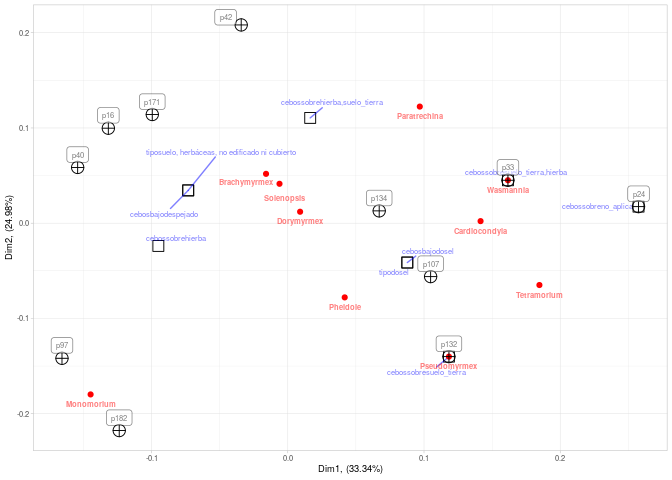
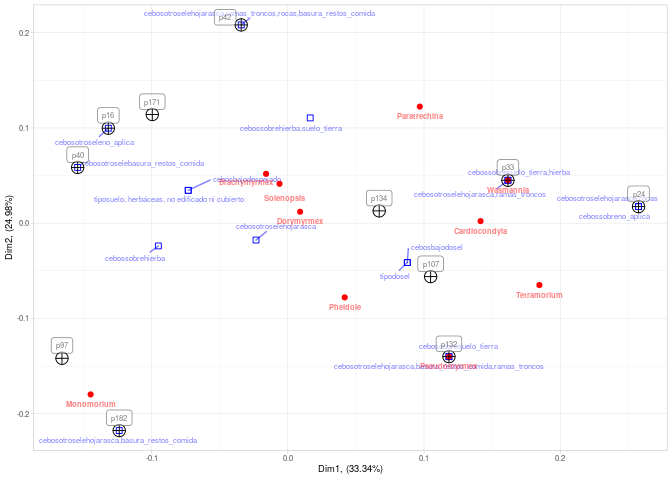
bidelkis added

diff --git a/analisis-exploratorio-ecologico.md b/analisis-exploratorio-ecologico.md
@@ -563,7 +563,7 @@ grep(
 
 ### Hábitat
 
-#### `mangoland`
+#### Miguel, usuario `mangoland`
 
 Si tus datos son de hábitat (para nidos, lee más abajo), utiliza la
 función `matriz_comunidad_hab` para generar una matriz de comunidad, y
@@ -721,30 +721,22 @@ dendro(mc = mcmg_ord, k = 4)
 
 ![](analisis-exploratorio-ecologico_files/figure-gfm/dendro_mg-1.png)<!-- -->
 
-PCoA. Leer la [leyenda de símbolos](#leyendasimbolos) a continuación del
-gráfico, también denominado “*biplot*”:
+PCoA.
 
 ``` r
 pcoa_mg <- pcoagg(mc = mcmg_ord, ma = mamg_ord, textoetiq = 2)
-pcoa_mg$grafico
+pcoa_mg['grafico']
+## $grafico
 ```
 
 <img src="analisis-exploratorio-ecologico_files/figure-gfm/pcoa_mg-1.png" width="1500" />
 
-<a name="leyendasimbolos"></a>Leyenda de símbolos:
+<a name="leyenda"></a>**Leyenda y significado del *biplot***:
 
 Los tres símbolos empleados reflejan las posiciones de tres tipos de
 objetos: géneros, sitios y variables, utilizando las puntuaciones
-(*scores*) de cada uno en el espacio bidimensional. En este escalado, la
-distancia entre cada objeto es inversamente proporcional a su relación.
-Por lo tanto, objetos próximos reflejan algún grado de relación entre sí
-dentro de la muestra. En el caso que nos ocupa, dado que se trata de
-pocas muestras, y por el hecho de que las variables son mayoritariamente
-cuantitativas, sobre un mismo punto es posible que solapen distintos
-símbolos; reconoce cuando aparezcan de forma combinada.
-
-Leyenda de
-objetos:
+(*scores*) de cada uno en el espacio bidimensional o
+*biplot*.
 
 |                            |                                           |
 | :------------------------: | :---------------------------------------: |
@@ -752,7 +744,15 @@ objetos:
 |  ![](simbolo-sitios.png)   |                  sitios                   |
 | ![](simbolo-variables.png) | <span style="color:blue">variables</span> |
 
-#### `emdilone`
+En este escalado, la distancia entre cada objeto es inversamente
+proporcional a su relación. Por lo tanto, objetos próximos reflejan
+algún grado de relación entre sí dentro de la muestra. En el caso que
+nos ocupa, dado que se trata de pocas muestras, y por el hecho de que
+las variables son mayoritariamente cuantitativas, sobre un mismo punto
+es posible que solapen distintos símbolos; reconoce cuando aparezcan de
+forma combinada.
+
+#### Emma, usuaria `emdilone`
 
 ``` r
 mcemdilone <- matriz_comunidad_hab('emdilone')
@@ -883,7 +883,146 @@ PCoA:
 
 ``` r
 pcoa_em <- pcoagg(mc = mcem_ord, ma = maem_ord, distmethod = 'gower', textoetiq = 2, p_max = 0.2)
-pcoa_em$grafico
+pcoa_em['grafico']
+## $grafico
 ```
 
 <img src="analisis-exploratorio-ecologico_files/figure-gfm/pcoa_emdilone-1.png" width="1500" />
+
+Ir a [leyenda y significado del *biplot*](#leyenda).
+
+#### Emma, usuaria `emdilone`
+
+``` r
+mcbidelkiscastillo <- matriz_comunidad_hab('bidelkiscastillo')
+mabidelkiscastillo <- matriz_ambiental_hab('bidelkiscastillo')
+mabidelkiscastillo <- mabidelkiscastillo[match(rownames(mcbidelkiscastillo), rownames(mabidelkiscastillo)),]
+```
+
+``` r
+mcbidelkiscastillo %>% kable
+```
+
+|      | Dorymyrmex | Paratrechina | Pheidole | Pseudomyrmex | Solenopsis |
+| ---- | ---------: | -----------: | -------: | -----------: | ---------: |
+| p105 |          0 |            1 |        0 |            0 |          0 |
+| p122 |          1 |            0 |        0 |            0 |          0 |
+| p126 |          0 |            0 |        0 |            0 |          0 |
+| p160 |          1 |            0 |        0 |            0 |          0 |
+| p169 |          1 |            0 |        0 |            0 |          0 |
+| p17  |          0 |            0 |        0 |            0 |          1 |
+| p182 |          1 |            0 |        1 |            0 |          0 |
+| p187 |          1 |            1 |        0 |            0 |          0 |
+| p39  |          1 |            0 |        0 |            0 |          0 |
+| p53  |          0 |            0 |        0 |            1 |          1 |
+| p78  |          1 |            0 |        0 |            0 |          0 |
+
+``` r
+mabidelkiscastillo %>% kable
+```
+
+|      | horainicio | horafinal | distanciaabasura  | distanciaagua     | distanciavias | actividadpersonas | actividadcebo1 | actividadcebo2 | actividadcebo3 | actividadcebo4 | fechacolecta         | plantas                  | cebosbajo | cebossobre           | cebosotrosele                    | tipo                                                    | riqueza |
+| ---- | :--------- | :-------- | :---------------- | :---------------- | :------------ | :---------------- | :------------- | :------------- | :------------- | :------------- | :------------------- | :----------------------- | :-------- | :------------------- | :------------------------------- | :------------------------------------------------------ | ------: |
+| p105 | 10.30 am   | 11.20 am  | no hay a la vista | no hay a la vista | 1a5           | 0                 | 0              | 0              | 0              | 10omas         | 2019-09-28T00:00:00Z | Palma                    | despejado | cemento\_pavimento   | no\_aplica                       | pavimentado, acerado (bordes edificios, bancos, postes) |       1 |
+| p122 | 2.30 pm    | 3.40 pm   | 10omas            | no hay a la vista | 1a5           | 0                 | 6a9            | 10omas         | 10omas         | 10omas         | 2019-09-28T00:00:00Z | Frambollan               | despejado | hierba               | hojarasca,rocas,ramas\_troncos   | suelo, herbáceas, no edificado ni cubierto              |       1 |
+| p126 | 11.00 am   | 11.41 am  | no hay a la vista | no hay a la vista | 1a5           | 6a9               | 0              | 0              | 0              | 0              | 2019-10-22T00:00:00Z | Framboyan, palma, flores | despejado | cemento\_pavimento   | no\_aplica                       | pavimentado, acerado (bordes edificios, bancos, postes) |      NA |
+| p160 | 1.55 pm    | 2.57 pm   | 1a5               | 1a5               | 1a5           | 1a5               | 1a5            | 6a9            | 1a5            | 10omas         | 2019-10-14T00:00:00Z | Palma, framboyan         | despejado | hierba               | basura\_restos\_comida,hojarasca | suelo, herbáceas, no edificado ni cubierto              |       1 |
+| p169 | 12.15 pm   | 1.00 pm   | 6a9               | no hay a la vista | 1a5           | 0                 | 0              | 1a5            | 1a5            | 0              | 2019-09-28T00:00:00Z | Palma                    | despejado | cemento\_pavimento   | basura\_restos\_comida           | pavimentado, acerado (bordes edificios, bancos, postes) |       1 |
+| p17  | 10.35 am   | 11.17 am  | 1a5               | no hay a la vista | 6a9           | 1a5               | 0              | 0              | 0              | 10omas         | 2019-10-12T00:00:00Z | Mango                    | despejado | suelo\_tierra,hierba | basura\_restos\_comida           | suelo, herbáceas, no edificado ni cubierto              |       1 |
+| p182 | 3.00 pm    | 4.15 pm   | 1a5               | no hay a la vista | 1a5           | 0                 | 1a5            | 6a9            | 6a9            | 10omas         | 2019-09-27T00:00:00Z | NULL                     | despejado | hierba               | basura\_restos\_comida,hojarasca | suelo, herbáceas, no edificado ni cubierto              |       2 |
+| p187 | 4.45 pm    | 5.35 pm   | 1a5               | 1a5               | 1a5           | 0                 | 0              | 0              | 0              | 1a5            | 2019-10-14T00:00:00Z | NULL                     | despejado | cemento\_pavimento   | basura\_restos\_comida,hojarasca | pavimentado, acerado (bordes edificios, bancos, postes) |       2 |
+| p39  | 1.30 pm    | 2.15 pm   | 1a5               | no hay a la vista | 10omas        | 0                 | 1a5            | 0              | 1a5            | 0              | 2019-10-12T00:00:00Z | NULL                     | despejado | suelo\_tierra,hierba | basura\_restos\_comida           | suelo, herbáceas, no edificado ni cubierto              |       1 |
+| p53  | 12.10 pm   | 1.05 pm   | 1a5               | no hay a la vista | 1a5           | 1a5               | 0              | 1a5            | 0              | 1a5            | 2019-10-12T00:00:00Z | Ni idea                  | despejado | cemento\_pavimento   | basura\_restos\_comida,hojarasca | pavimentado, acerado (bordes edificios, bancos, postes) |       2 |
+| p78  | 3.17 pm    | 4.10 pm   | 1a5               | no hay a la vista | 1a5           | 6a9               | 0              | 1a5            | 0              | 1a5            | 2019-10-14T00:00:00Z | Framboyan, caoba         | despejado | cemento\_pavimento   | basura\_restos\_comida           | pavimentado, acerado (bordes edificios, bancos, postes) |       1 |
+
+Análisis exploratorios
+básicos:
+
+``` r
+mcbidelkiscastillo %>% rowSums %>% length #Número de individuos por parcela
+## [1] 11
+mcbidelkiscastillo %>% specnumber #Número de géneros por parcela
+## p105 p122 p126 p160 p169  p17 p182 p187  p39  p53  p78 
+##    1    1    0    1    1    1    2    2    1    2    1
+mcbidelkiscastillo %>% specnumber %>% sort #Número de géneros por parcela ordenados ascendentemente
+## p126 p105 p122 p160 p169  p17  p39  p78 p182 p187  p53 
+##    0    1    1    1    1    1    1    1    2    2    2
+mcbidelkiscastillo %>% colSums %>% specnumber #Número de géneros total (pooled)
+## [1] 5
+mcbidelkiscastillo %>% rowSums %>% table #Número de parcelas según conteo de géneros
+## .
+## 0 1 2 
+## 1 7 3
+mcbidelkiscastillo %>% colSums %>% sort #Número de parcelas en las que aparece cada género
+##     Pheidole Pseudomyrmex Paratrechina   Solenopsis   Dorymyrmex 
+##            1            1            2            2            7
+```
+
+Curva de acumulación de especies:
+
+``` r
+mcbidelkiscastillo_sac <- specaccum(mcbidelkiscastillo)
+plot(mcbidelkiscastillo_sac, ci.type="polygon", ci.col="yellow")  
+```
+
+![](analisis-exploratorio-ecologico_files/figure-gfm/curva_acumulacion_bidelkiscastillo-1.png)<!-- -->
+
+##### Ordenación: dendrograma y PCoA
+
+Generar matrices de comunidad y ambiental para ordenación:
+
+``` r
+mcbidelkiscastillo_ord <- mc_para_ord(filtusuario = 'bidelkiscastillo')
+mcbidelkiscastillo_ord %>% kable
+```
+
+|      | Dorymyrmex | Paratrechina |  Pheidole | Pseudomyrmex | Solenopsis |
+| ---- | ---------: | -----------: | --------: | -----------: | ---------: |
+| p105 |  0.0000000 |    1.0000000 | 0.0000000 |    0.0000000 |  0.0000000 |
+| p122 |  1.0000000 |    0.0000000 | 0.0000000 |    0.0000000 |  0.0000000 |
+| p160 |  1.0000000 |    0.0000000 | 0.0000000 |    0.0000000 |  0.0000000 |
+| p169 |  1.0000000 |    0.0000000 | 0.0000000 |    0.0000000 |  0.0000000 |
+| p17  |  0.0000000 |    0.0000000 | 0.0000000 |    0.0000000 |  1.0000000 |
+| p182 |  0.7071068 |    0.0000000 | 0.7071068 |    0.0000000 |  0.0000000 |
+| p187 |  0.7071068 |    0.7071068 | 0.0000000 |    0.0000000 |  0.0000000 |
+| p39  |  1.0000000 |    0.0000000 | 0.0000000 |    0.0000000 |  0.0000000 |
+| p53  |  0.0000000 |    0.0000000 | 0.0000000 |    0.7071068 |  0.7071068 |
+| p78  |  1.0000000 |    0.0000000 | 0.0000000 |    0.0000000 |  0.0000000 |
+
+``` r
+mabidelkiscastillo_ord <- ma_para_ord(filtusuario = 'bidelkiscastillo', mc = mcbidelkiscastillo_ord)
+mabidelkiscastillo_ord %>% kable
+```
+
+|      | riqueza | tipo                                                    | distanciaabasura  | distanciaagua     | distanciavias | actividadpersonas | actividadcebo1 | actividadcebo2 | actividadcebo3 | actividadcebo4 | cebosbajo | cebossobre           | cebosotrosele                    |
+| ---- | ------: | :------------------------------------------------------ | :---------------- | :---------------- | :------------ | :---------------- | :------------- | :------------- | :------------- | :------------- | :-------- | :------------------- | :------------------------------- |
+| p105 |       1 | pavimentado, acerado (bordes edificios, bancos, postes) | no hay a la vista | no hay a la vista | 1a5           | 0                 | 0              | 0              | 0              | 10omas         | despejado | cemento\_pavimento   | no\_aplica                       |
+| p122 |       1 | suelo, herbáceas, no edificado ni cubierto              | 10omas            | no hay a la vista | 1a5           | 0                 | 6a9            | 10omas         | 10omas         | 10omas         | despejado | hierba               | hojarasca,rocas,ramas\_troncos   |
+| p160 |       1 | suelo, herbáceas, no edificado ni cubierto              | 1a5               | 1a5               | 1a5           | 1a5               | 1a5            | 6a9            | 1a5            | 10omas         | despejado | hierba               | basura\_restos\_comida,hojarasca |
+| p169 |       1 | pavimentado, acerado (bordes edificios, bancos, postes) | 6a9               | no hay a la vista | 1a5           | 0                 | 0              | 1a5            | 1a5            | 0              | despejado | cemento\_pavimento   | basura\_restos\_comida           |
+| p17  |       1 | suelo, herbáceas, no edificado ni cubierto              | 1a5               | no hay a la vista | 6a9           | 1a5               | 0              | 0              | 0              | 10omas         | despejado | suelo\_tierra,hierba | basura\_restos\_comida           |
+| p182 |       2 | suelo, herbáceas, no edificado ni cubierto              | 1a5               | no hay a la vista | 1a5           | 0                 | 1a5            | 6a9            | 6a9            | 10omas         | despejado | hierba               | basura\_restos\_comida,hojarasca |
+| p187 |       2 | pavimentado, acerado (bordes edificios, bancos, postes) | 1a5               | 1a5               | 1a5           | 0                 | 0              | 0              | 0              | 1a5            | despejado | cemento\_pavimento   | basura\_restos\_comida,hojarasca |
+| p39  |       1 | suelo, herbáceas, no edificado ni cubierto              | 1a5               | no hay a la vista | 10omas        | 0                 | 1a5            | 0              | 1a5            | 0              | despejado | suelo\_tierra,hierba | basura\_restos\_comida           |
+| p53  |       2 | pavimentado, acerado (bordes edificios, bancos, postes) | 1a5               | no hay a la vista | 1a5           | 1a5               | 0              | 1a5            | 0              | 1a5            | despejado | cemento\_pavimento   | basura\_restos\_comida,hojarasca |
+| p78  |       1 | pavimentado, acerado (bordes edificios, bancos, postes) | 1a5               | no hay a la vista | 1a5           | 6a9               | 0              | 1a5            | 0              | 1a5            | despejado | cemento\_pavimento   | basura\_restos\_comida           |
+
+Dendrograma:
+
+``` r
+dendro(mc = mcbidelkiscastillo_ord, k = 3)
+```
+
+![](analisis-exploratorio-ecologico_files/figure-gfm/dendro_bidelkiscastillo-1.png)<!-- -->
+
+PCoA:
+
+``` r
+pcoa_bidelkiscastillo <- pcoagg(mc = mcbidelkiscastillo_ord, ma = mabidelkiscastillo_ord, distmethod = 'gower', textoetiq = 2, p_max = 0.45)
+pcoa_bidelkiscastillo['grafico']
+## $grafico
+```
+
+<img src="analisis-exploratorio-ecologico_files/figure-gfm/pcoa_bidelkiscastillo-1.png" width="1500" />
+
+Ir a [leyenda y significado del *biplot*](#leyenda).
